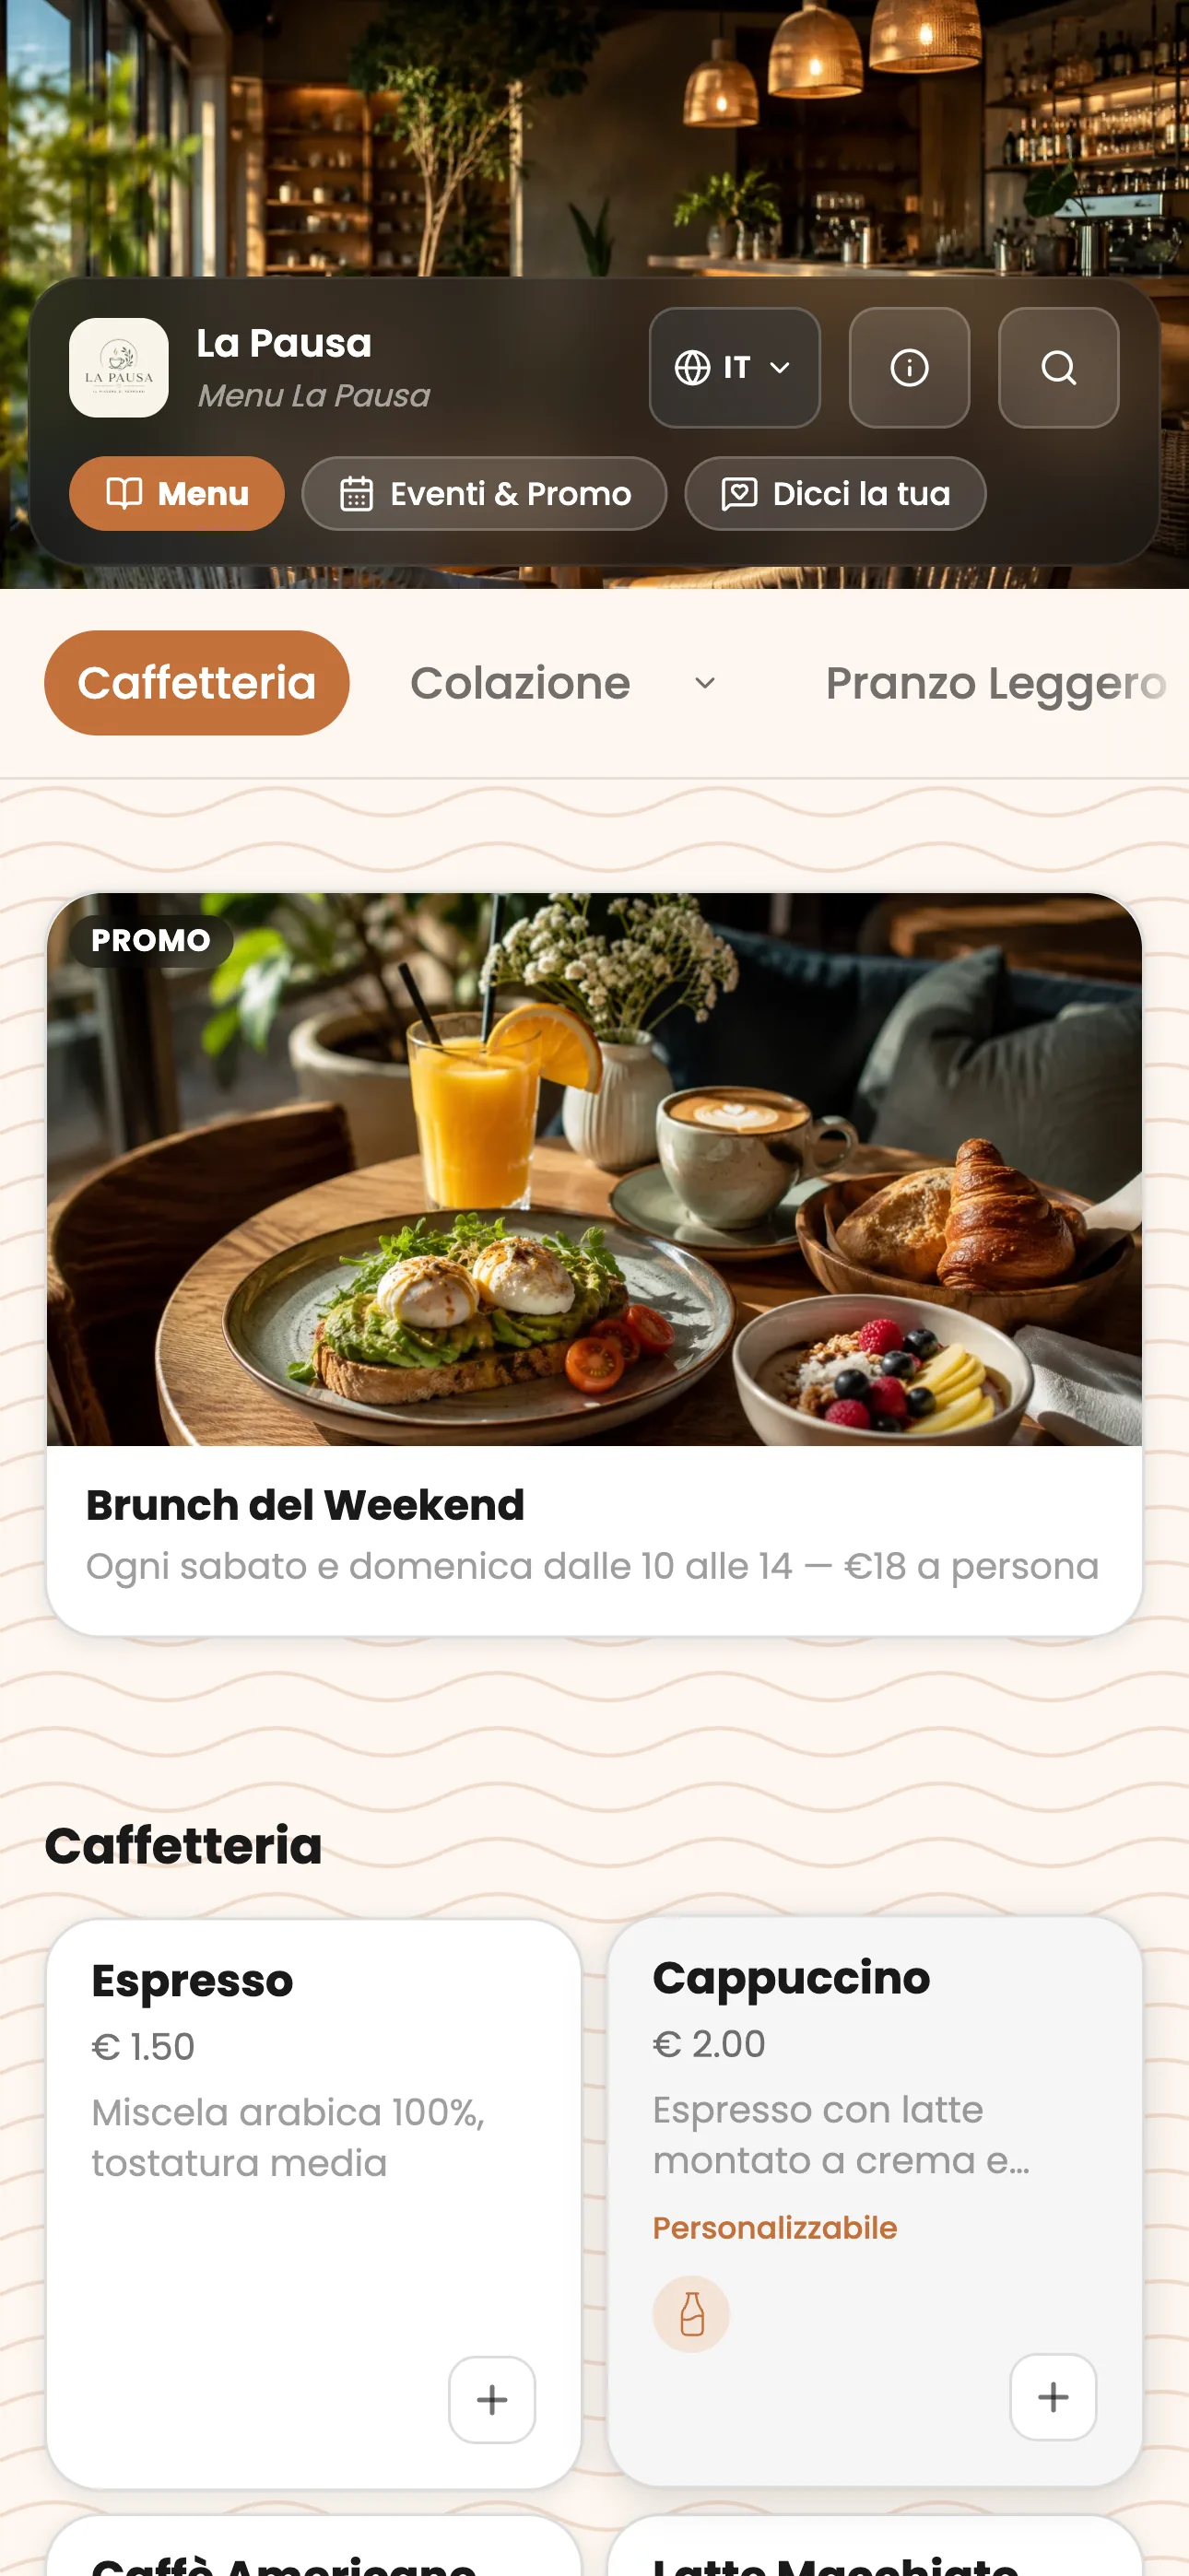
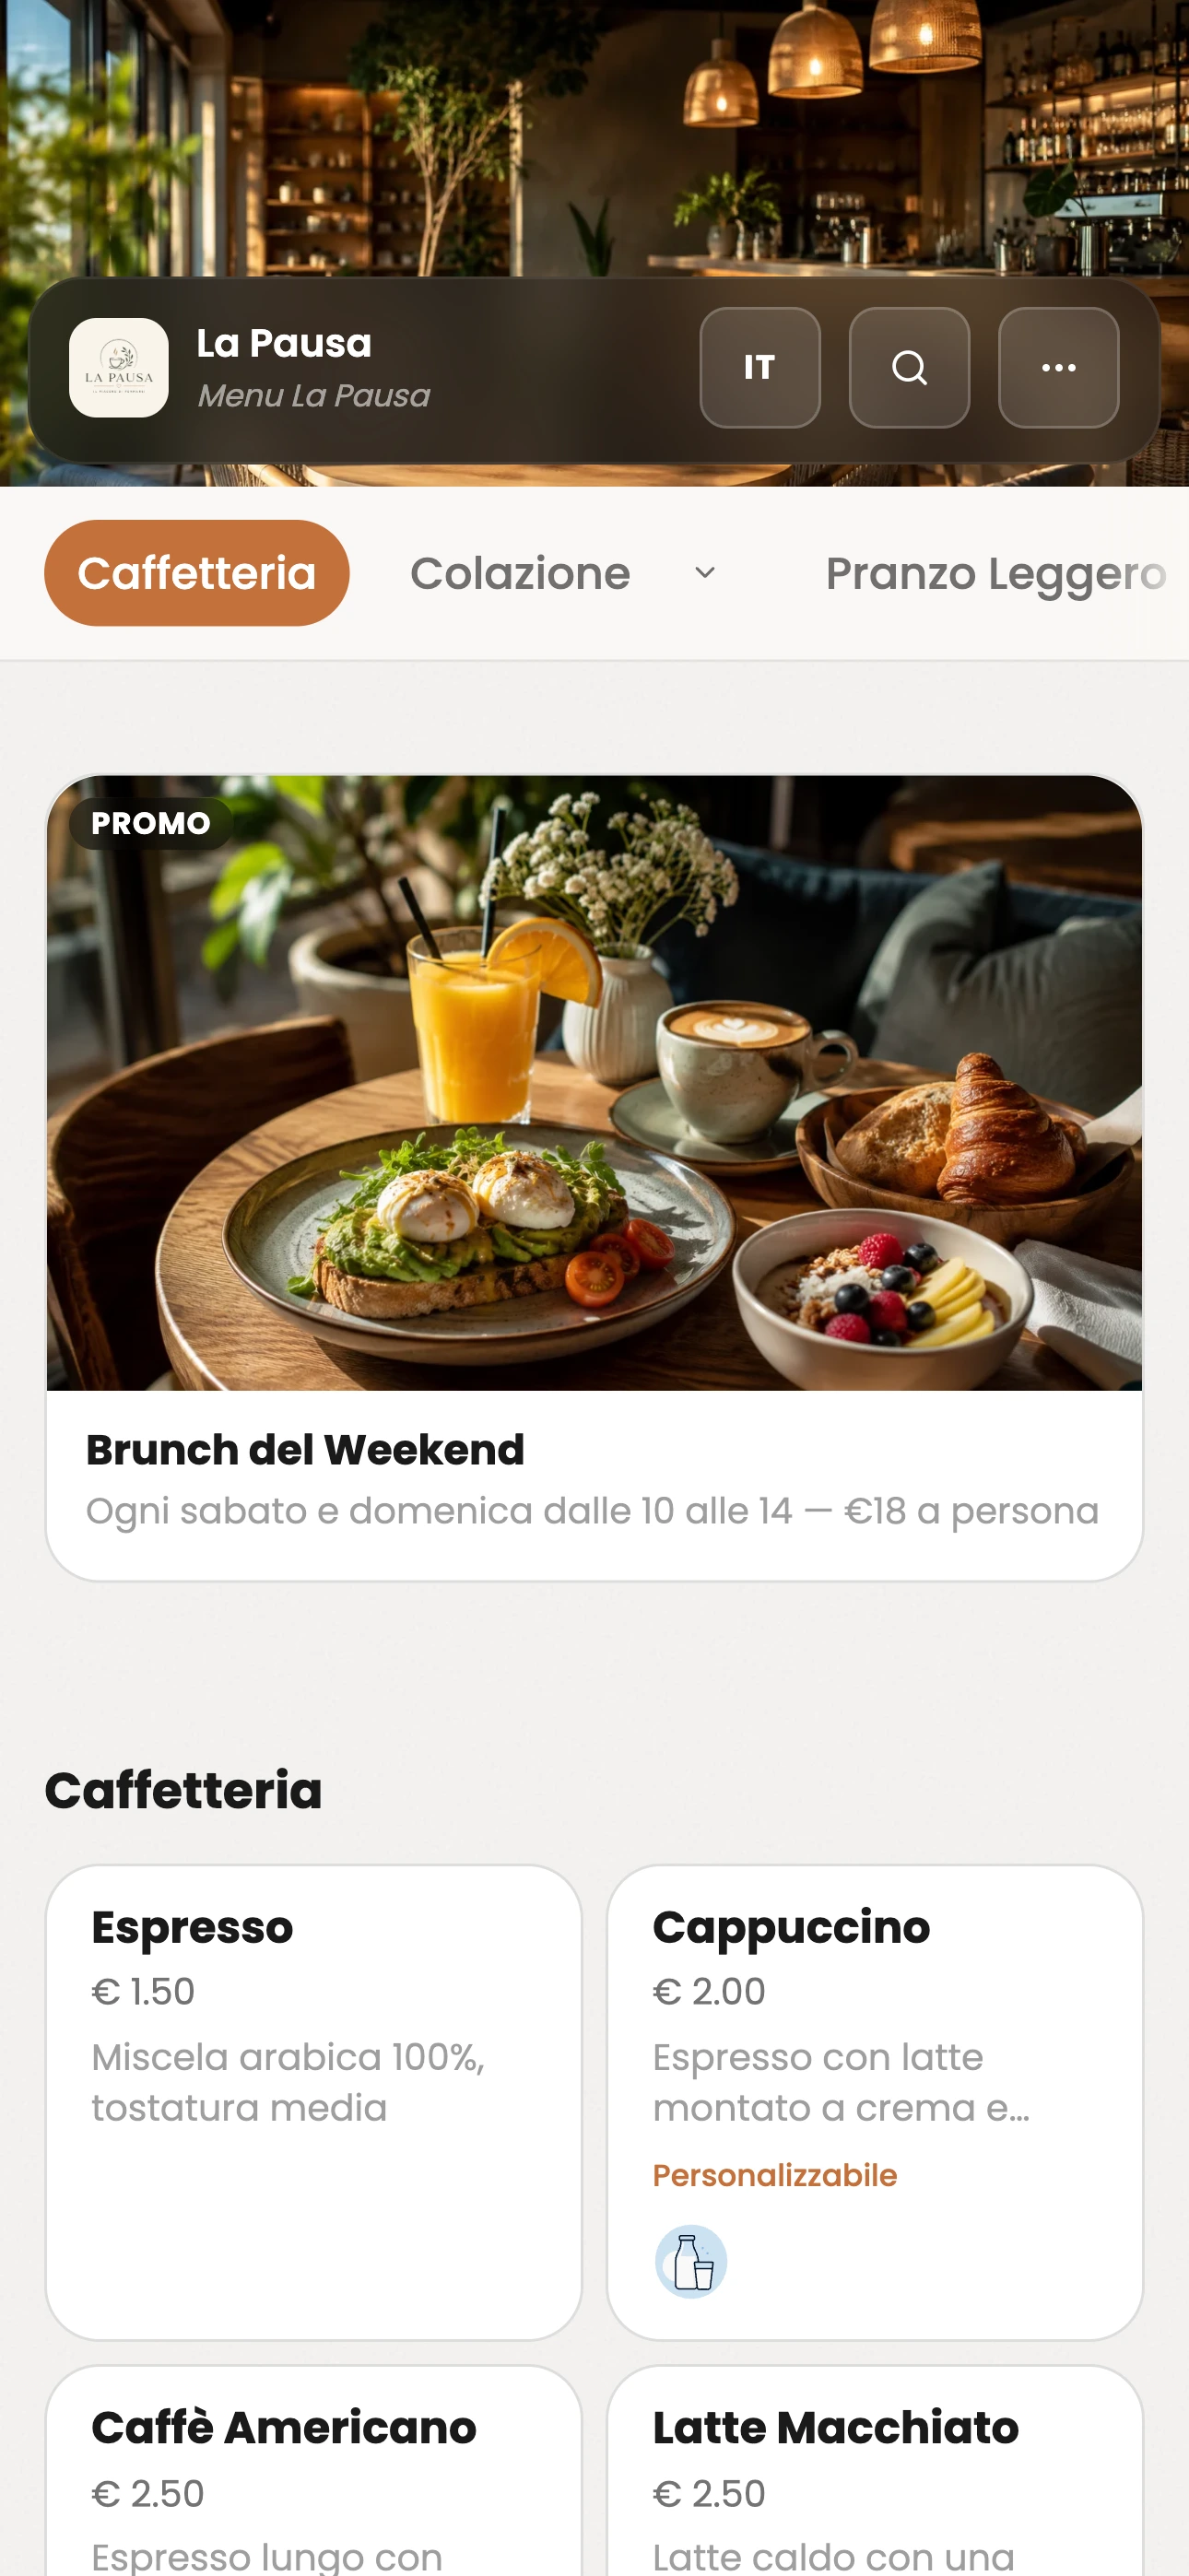
chore(landing): wip redesign — demo section copy + multi-sede section rework

diff --git a/src/pages/Landing/LandingRedesign.mockup.module.scss b/src/pages/Landing/LandingRedesign.mockup.module.scss
@@ -1046,32 +1046,201 @@
 /* ================================================================
    CHIUSURA-PROMESSA — multi-sede come crescita (una riga forte)
    ================================================================ */
-.promise {
-  text-align: center;
-  padding: clamp(72px, 11vw, 132px) 0;
-  background: linear-gradient(180deg, var(--surface), var(--slate));
+/* ================================================================
+   MULTI-SEDE — voce + cruscotto catena (mostra il governo del diverso)
+   ================================================================ */
+.chain {
+  background: var(--slate);
   border-top: 1px solid var(--border);
+  border-bottom: 1px solid var(--border);
+  padding: clamp(64px, 9vw, 120px) 0;
+  scroll-margin-top: 76px;
 }
-.promiseLine {
+.chainGrid {
+  display: grid;
+  grid-template-columns: 1fr;
+  gap: clamp(30px, 5vw, 56px);
+  align-items: center;
+
+  @media (min-width: 880px) { grid-template-columns: 340px 1fr; }
+}
+.chainVoice { max-width: 34rem; }
+.chainH2 {
   font-family: var(--serif);
   font-weight: 500;
-  font-size: clamp(2rem, 4.6vw, 3.4rem);
-  line-height: 1.12;
+  font-size: clamp(1.8rem, 3.4vw, 2.6rem);
+  line-height: 1.14;
   letter-spacing: -0.02em;
   color: var(--ink);
-  margin: 0 auto;
-  max-width: 18ch;
+  margin: 0 0 16px;
   text-wrap: balance;
-
-  em { font-style: italic; font-weight: 400; color: var(--indigo-deep); }
 }
-.promiseSub {
+.chainSub {
   font-family: var(--sans);
-  font-size: clamp(1rem, 1.4vw, 1.12rem);
-  color: var(--body);
-  margin: 22px auto 0;
-  max-width: 34rem;
+  font-size: clamp(1rem, 1.3vw, 1.1rem);
   line-height: 1.6;
+  color: var(--body);
+  margin: 0 0 12px;
+  max-width: 40ch;
+}
+.chainSubNote {
+  font-family: var(--sans);
+  font-size: 0.9rem;
+  line-height: 1.55;
+  color: var(--muted);
+  margin: 0;
+  max-width: 38ch;
+}
+
+/* ---- Cruscotto ---- */
+.chainPanel {
+  background: var(--surface);
+  border: 1px solid var(--border);
+  border-radius: 18px;
+  overflow: hidden;
+  box-shadow: 0 24px 50px -34px rgba(20, 22, 31, 0.5);
+}
+.chainHead {
+  display: flex;
+  align-items: center;
+  gap: 13px;
+  padding: 16px clamp(16px, 2.5vw, 22px);
+  border-bottom: 1px solid var(--border);
+  background: linear-gradient(180deg, #fbfbfe, var(--surface));
+}
+.chainMonogram {
+  flex: 0 0 auto;
+  width: 38px;
+  height: 38px;
+  border-radius: 10px;
+  display: grid;
+  place-items: center;
+  background: var(--indigo-deep);
+  color: #fff;
+}
+.chainBrand { display: flex; flex-direction: column; margin-right: auto; }
+.chainBrandName {
+  font-family: var(--serif);
+  font-size: 1.2rem;
+  font-weight: 500;
+  color: var(--ink);
+  line-height: 1.1;
+}
+.chainBrandMeta {
+  font-family: var(--sans);
+  font-size: 12.5px;
+  color: var(--muted);
+  margin-top: 2px;
+}
+.chainTable { display: flex; flex-direction: column; }
+.chainRow {
+  display: grid;
+  grid-template-columns: 1.5fr 1.6fr 1.6fr 1fr;
+  gap: 16px;
+  align-items: center;
+  padding: 14px clamp(16px, 2.5vw, 22px);
+  border-top: 1px solid var(--border);
+}
+.chainRowHead {
+  border-top: none;
+  padding-top: 12px;
+  padding-bottom: 12px;
+  background: var(--slate);
+
+  span {
+    font-family: var(--sans);
+    font-size: 11px;
+    font-weight: 700;
+    letter-spacing: 0.06em;
+    text-transform: uppercase;
+    color: var(--muted);
+  }
+}
+.chainSede { display: flex; line-height: 1.2; }
+.chainSedeZona {
+  font-family: var(--serif);
+  font-size: 1.08rem;
+  font-weight: 500;
+  color: var(--ink);
+}
+.chainCell { min-width: 0; }
+.chainCellMain {
+  display: block;
+  font-family: var(--sans);
+  font-size: 14px;
+  font-weight: 500;
+  color: var(--ink);
+  line-height: 1.3;
+}
+.chainCellSub {
+  display: block;
+  font-family: var(--sans);
+  font-size: 12px;
+  font-weight: 400;
+  color: var(--muted);
+  margin-top: 2px;
+}
+.chainEmpty {
+  font-family: var(--sans);
+  font-size: 14px;
+  color: var(--muted);
+}
+.cellLabel { display: none; }
+
+/* Style chip — colore per stile (mostra che ogni sede ha il suo abito) */
+.chainStyle {
+  display: inline-flex;
+  align-items: center;
+  gap: 7px;
+  font-family: var(--sans);
+  font-size: 13px;
+  font-weight: 600;
+  border-radius: 999px;
+  padding: 4px 11px 4px 9px;
+  white-space: nowrap;
+}
+.chainStyleDot {
+  width: 9px;
+  height: 9px;
+  border-radius: 50%;
+  flex: 0 0 auto;
+}
+.chainStyleLight { background: #eef1f6; color: #3a4254; }
+.chainStyleLight .chainStyleDot { background: #9aa6bd; }
+.chainStyleEve { background: var(--indigo-soft); color: var(--indigo-deep); }
+.chainStyleEve .chainStyleDot { background: var(--indigo-deep); }
+.chainStyleWarm { background: #f7ecd9; color: #8a5a10; }
+.chainStyleWarm .chainStyleDot { background: #e0a13a; }
+
+.chainMore {
+  font-family: var(--sans);
+  font-size: 13.5px;
+  color: var(--muted);
+  margin: 0;
+  padding: 15px clamp(16px, 2.5vw, 22px);
+  border-top: 1px solid var(--border);
+  background: var(--slate);
+}
+
+/* Mobile: ogni riga diventa una card leggibile (label + valore), niente colonne schiacciate */
+@media (max-width: 720px) {
+  .chainRowHead { display: none; }
+  .chainRow {
+    grid-template-columns: 1fr;
+    gap: 10px;
+    padding: 16px clamp(16px, 4vw, 20px);
+  }
+  .chainCell { display: flex; align-items: baseline; justify-content: space-between; gap: 14px; }
+  .cellLabel {
+    display: inline;
+    flex: 0 0 auto;
+    font-family: var(--sans);
+    font-size: 12px;
+    font-weight: 600;
+    color: var(--muted);
+  }
+  .chainCellMain, .chainEmpty, .chainStyle { text-align: right; }
+  .chainCellSub { text-align: right; }
 }
 
 /* ================================================================

diff --git a/src/pages/Landing/LandingRedesign.mockup.tsx b/src/pages/Landing/LandingRedesign.mockup.tsx
@@ -27,6 +27,7 @@ import {
     CalendarCheck,
     CircleCheck,
     X,
+    Store,
 } from "lucide-react";
 import { FAQ_ITEMS, DEMOS } from "./landingData";
 import { COMPANY } from "@/config/company";
@@ -239,10 +240,11 @@ function DemoSection() {
             <div className={s.container}>
                 <Reveal className={s.demoLead}>
                     <h2 className={s.demoH2} id="demo-h2">
-                        Scansiona. Esplora. <em>Decidi.</em>
+                        Guarda cosa può diventare il tuo locale.
                     </h2>
                     <p className={s.demoSub}>
-                        Menu demo reali — scegli una sede, guarda il menu, inquadra il QR.
+                        Demo reali con stili diversi — tocca un locale e guarda la sua
+                        pagina dal vivo. La tua la disegni come vuoi.
                     </p>
                 </Reveal>
 
@@ -376,6 +378,122 @@ function DemoSection() {
                     </motion.div>
                 )}
             </AnimatePresence>
+        </section>
+    );
+}
+
+/* ── Sezione multi-sede — voce + pannello catena. Dimostra: una sola insegna
+   ("Il tuo ristorante" — placeholder dichiarato), tante sedi, ognuna configurata
+   diversa, governate da un posto solo. La ripetizione dell'insegna per zona
+   (Duomo/Navigli/…) è la chiave: è una CATENA, non locali scollegati. */
+const CHAIN_SEDI: {
+    zona: string;
+    menu: string;
+    orario: string;
+    evidenza: string | null;
+    stile: "Chiaro" | "Sera" | "Caldo";
+}[] = [
+    { zona: "Duomo", menu: "Turistico", orario: "multilingua · 12–22", evidenza: "Menu fisso pranzo", stile: "Chiaro" },
+    { zona: "Navigli", menu: "Aperitivo", orario: "18–23", evidenza: "Aperitivo del venerdì", stile: "Sera" },
+    { zona: "Stazione", menu: "Veloce", orario: "7–21", evidenza: null, stile: "Chiaro" },
+    { zona: "Bergamo", menu: "Cena", orario: "19–24", evidenza: "Menu degustazione", stile: "Caldo" },
+];
+
+function styleClass(stile: "Chiaro" | "Sera" | "Caldo") {
+    if (stile === "Sera") return s.chainStyleEve;
+    if (stile === "Caldo") return s.chainStyleWarm;
+    return s.chainStyleLight;
+}
+
+function ChainSection() {
+    return (
+        <section className={s.chain} aria-labelledby="chain-h2">
+            <div className={s.container}>
+                <div className={s.chainGrid}>
+                    <Reveal className={s.chainVoice}>
+                        <h2 className={s.chainH2} id="chain-h2">
+                            Un locale o cento. <em>Li gestisci da qui.</em>
+                        </h2>
+                        <p className={s.chainSub}>
+                            Ogni tua sede con il suo menu, i suoi contenuti in evidenza, il
+                            suo stile. Li decidi tu — da un posto solo, senza aprire venti
+                            pannelli diversi.
+                        </p>
+                        <p className={s.chainSubNote}>
+                            Il Duomo con il menu turistico, i Navigli con l'aperitivo. Sedi
+                            diverse, gestione unica.
+                        </p>
+                    </Reveal>
+
+                    <Reveal className={s.chainPanel}>
+                        <div className={s.chainHead}>
+                            <span className={s.chainMonogram} aria-hidden="true">
+                                <Store size={18} strokeWidth={2} />
+                            </span>
+                            <span className={s.chainBrand}>
+                                <span className={s.chainBrandName}>Le tue sedi</span>
+                                <span className={s.chainBrandMeta}>
+                                    9 attive · un solo posto per gestirle
+                                </span>
+                            </span>
+                        </div>
+
+                        <div
+                            className={s.chainTable}
+                            role="table"
+                            aria-label="Le tue sedi"
+                        >
+                            <div className={`${s.chainRow} ${s.chainRowHead}`} role="row">
+                                <span className={s.chainColSede} role="columnheader">
+                                    Sede
+                                </span>
+                                <span role="columnheader">Menu attivo</span>
+                                <span role="columnheader">In evidenza</span>
+                                <span role="columnheader">Stile</span>
+                            </div>
+
+                            {CHAIN_SEDI.map((r) => (
+                                <div className={s.chainRow} role="row" key={r.zona}>
+                                    <span className={s.chainSede} role="cell">
+                                        <span className={s.chainSedeZona}>{r.zona}</span>
+                                    </span>
+                                    <span className={s.chainCell} role="cell">
+                                        <span className={s.cellLabel}>Menu attivo</span>
+                                        <span className={s.chainCellMain}>
+                                            {r.menu}
+                                            <span className={s.chainCellSub}>{r.orario}</span>
+                                        </span>
+                                    </span>
+                                    <span className={s.chainCell} role="cell">
+                                        <span className={s.cellLabel}>In evidenza</span>
+                                        <span
+                                            className={
+                                                r.evidenza ? s.chainCellMain : s.chainEmpty
+                                            }
+                                        >
+                                            {r.evidenza ?? "—"}
+                                        </span>
+                                    </span>
+                                    <span className={s.chainCell} role="cell">
+                                        <span className={s.cellLabel}>Stile</span>
+                                        <span
+                                            className={`${s.chainStyle} ${styleClass(r.stile)}`}
+                                        >
+                                            <span
+                                                className={s.chainStyleDot}
+                                                aria-hidden="true"
+                                            />
+                                            {r.stile}
+                                        </span>
+                                    </span>
+                                </div>
+                            ))}
+                        </div>
+
+                        <p className={s.chainMore}>e altre 5 sedi — tutte governate da qui.</p>
+                    </Reveal>
+                </div>
+            </div>
         </section>
     );
 }
@@ -805,18 +923,8 @@ export default function LandingRedesign() {
                     </div>
                 </section>
 
-                {/* ============ CHIUSURA-PROMESSA — multi-sede come crescita ============ */}
-                <section className={s.promise} aria-label="Da un locale a una catena">
-                    <div className={s.container}>
-                        <Reveal className={s.promiseLine} as="p">
-                            Inizia con un locale, scala a una catena <em>con lo stesso gesto</em>.
-                        </Reveal>
-                        <Reveal className={s.promiseSub} as="p">
-                            Le regole che imposti per un menu valgono per venti. Aggiungi una
-                            sede e il motore fa già tutto il resto.
-                        </Reveal>
-                    </div>
-                </section>
+                {/* ============ MULTI-SEDE — voce + cruscotto catena (mostra, non dice) ============ */}
+                <ChainSection />
 
                 {/* ============ PREZZI (dati reali) ============ */}
                 <section className={s.section} id="prezzi" aria-labelledby="prezzi-h2">